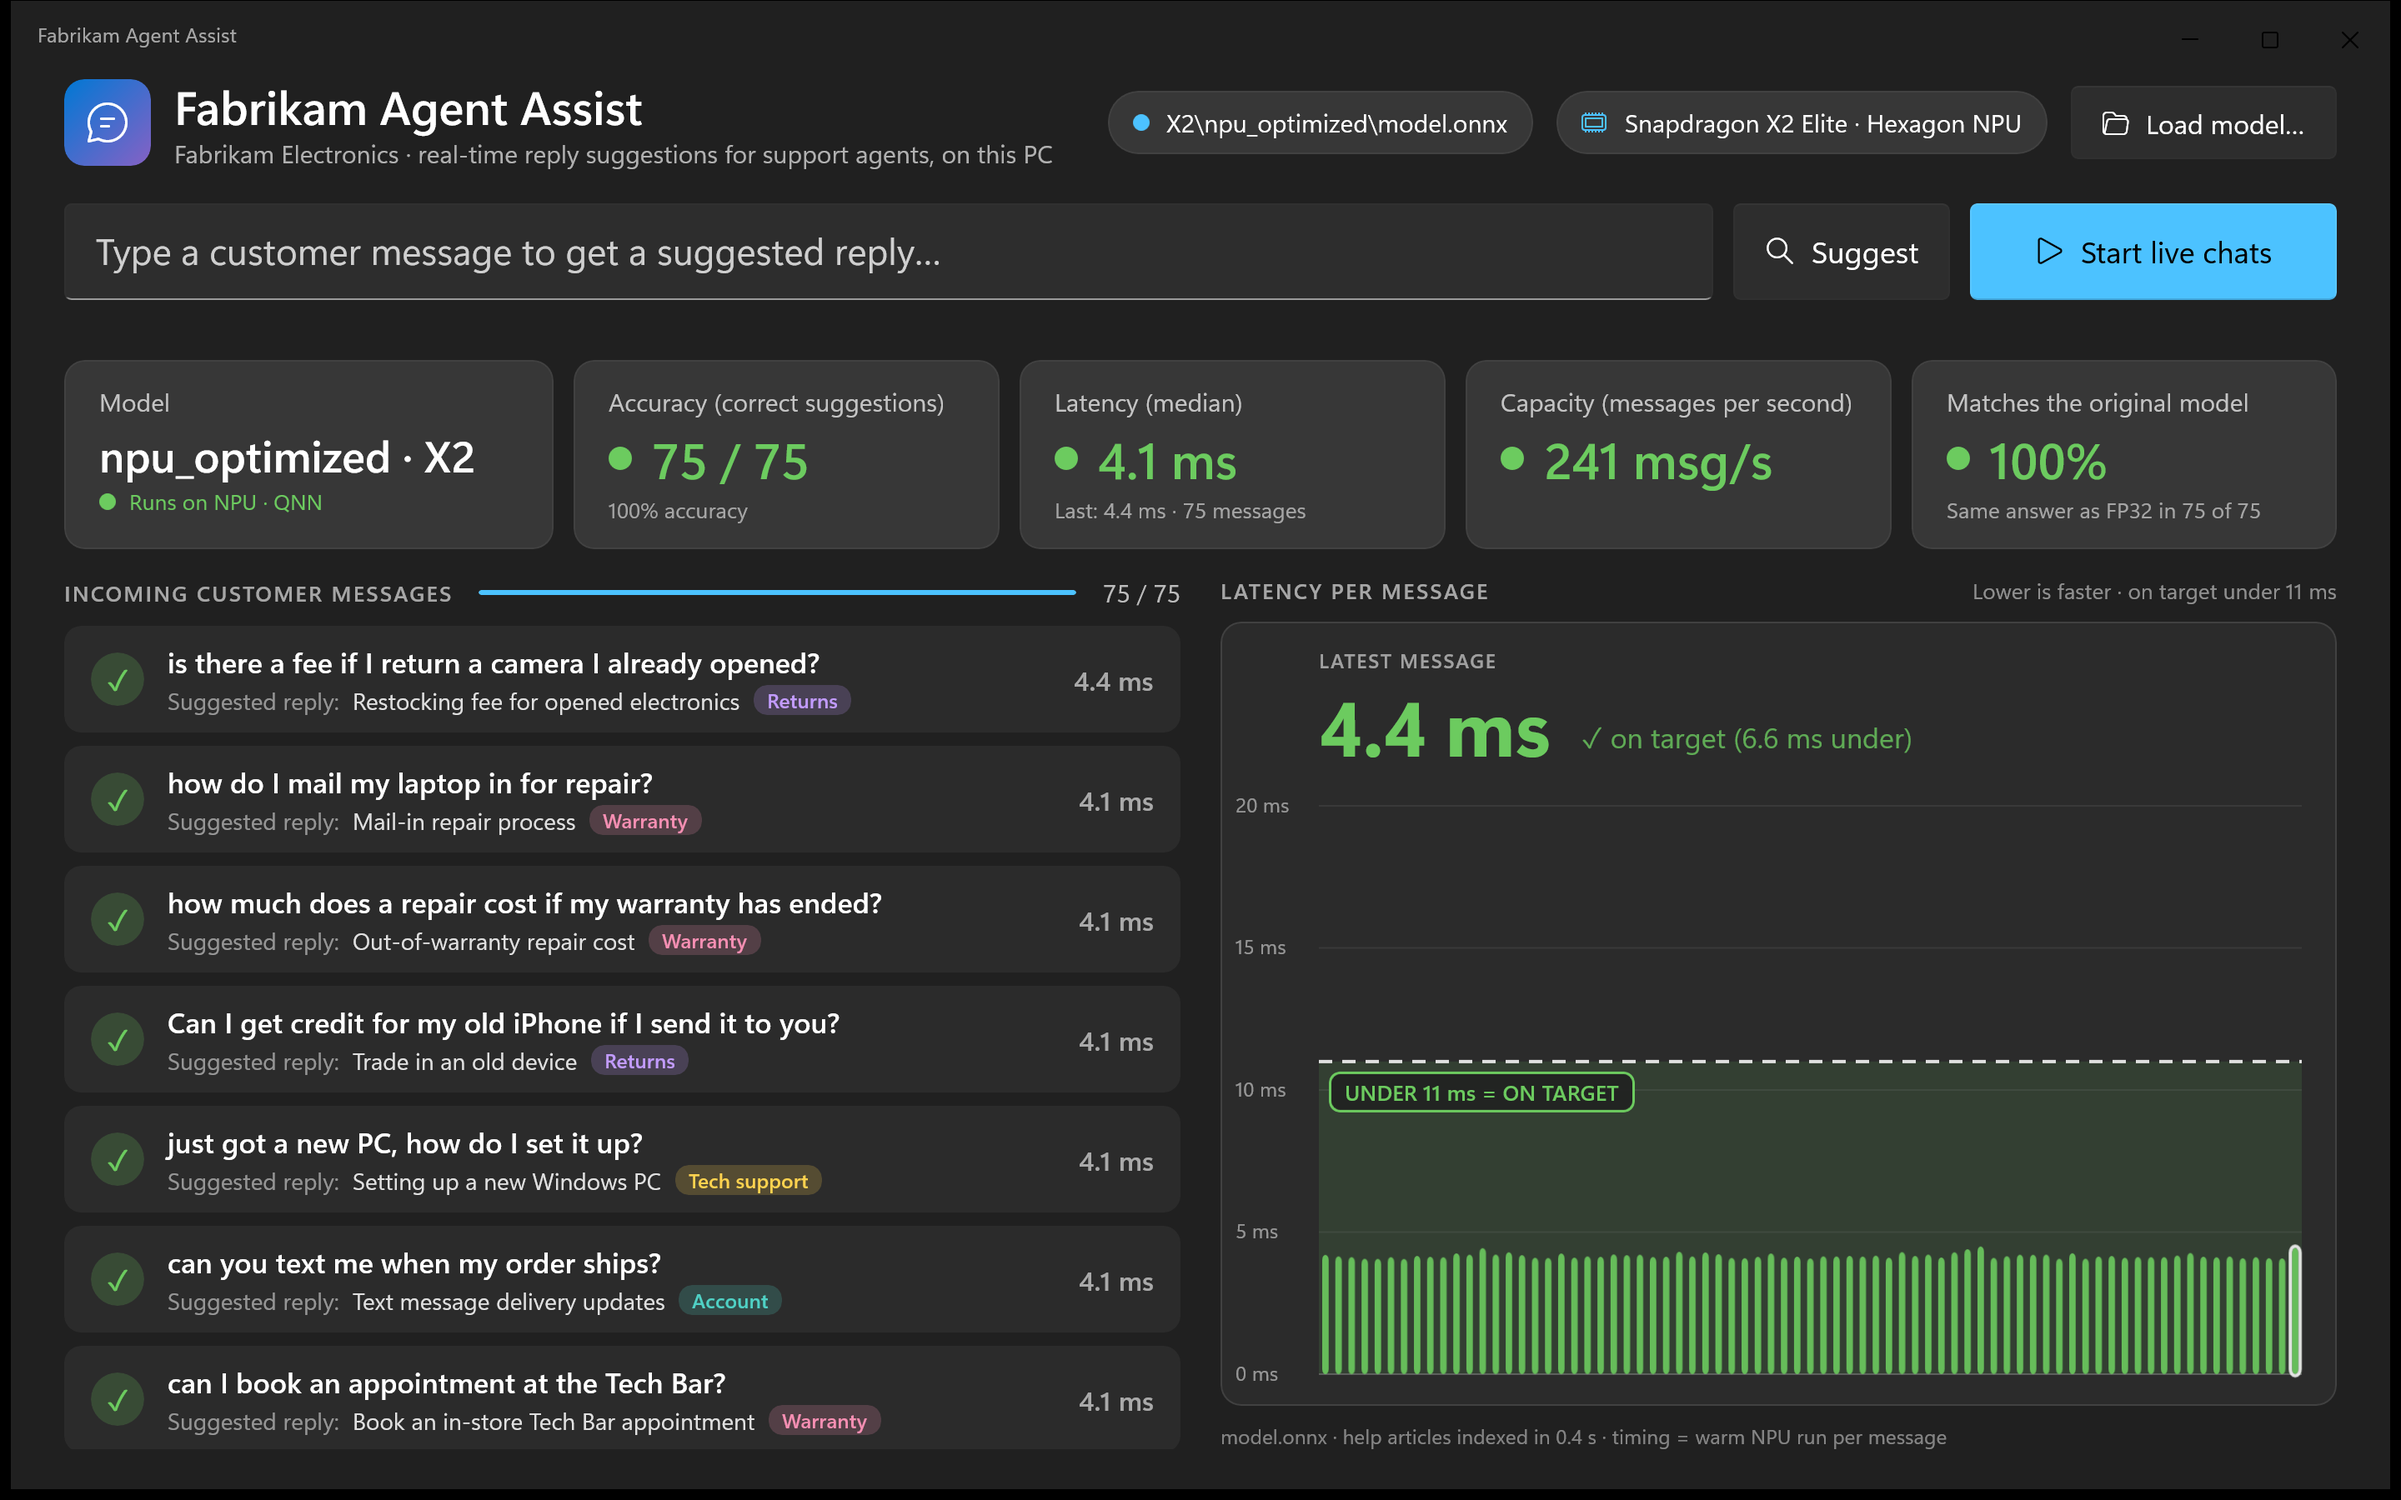
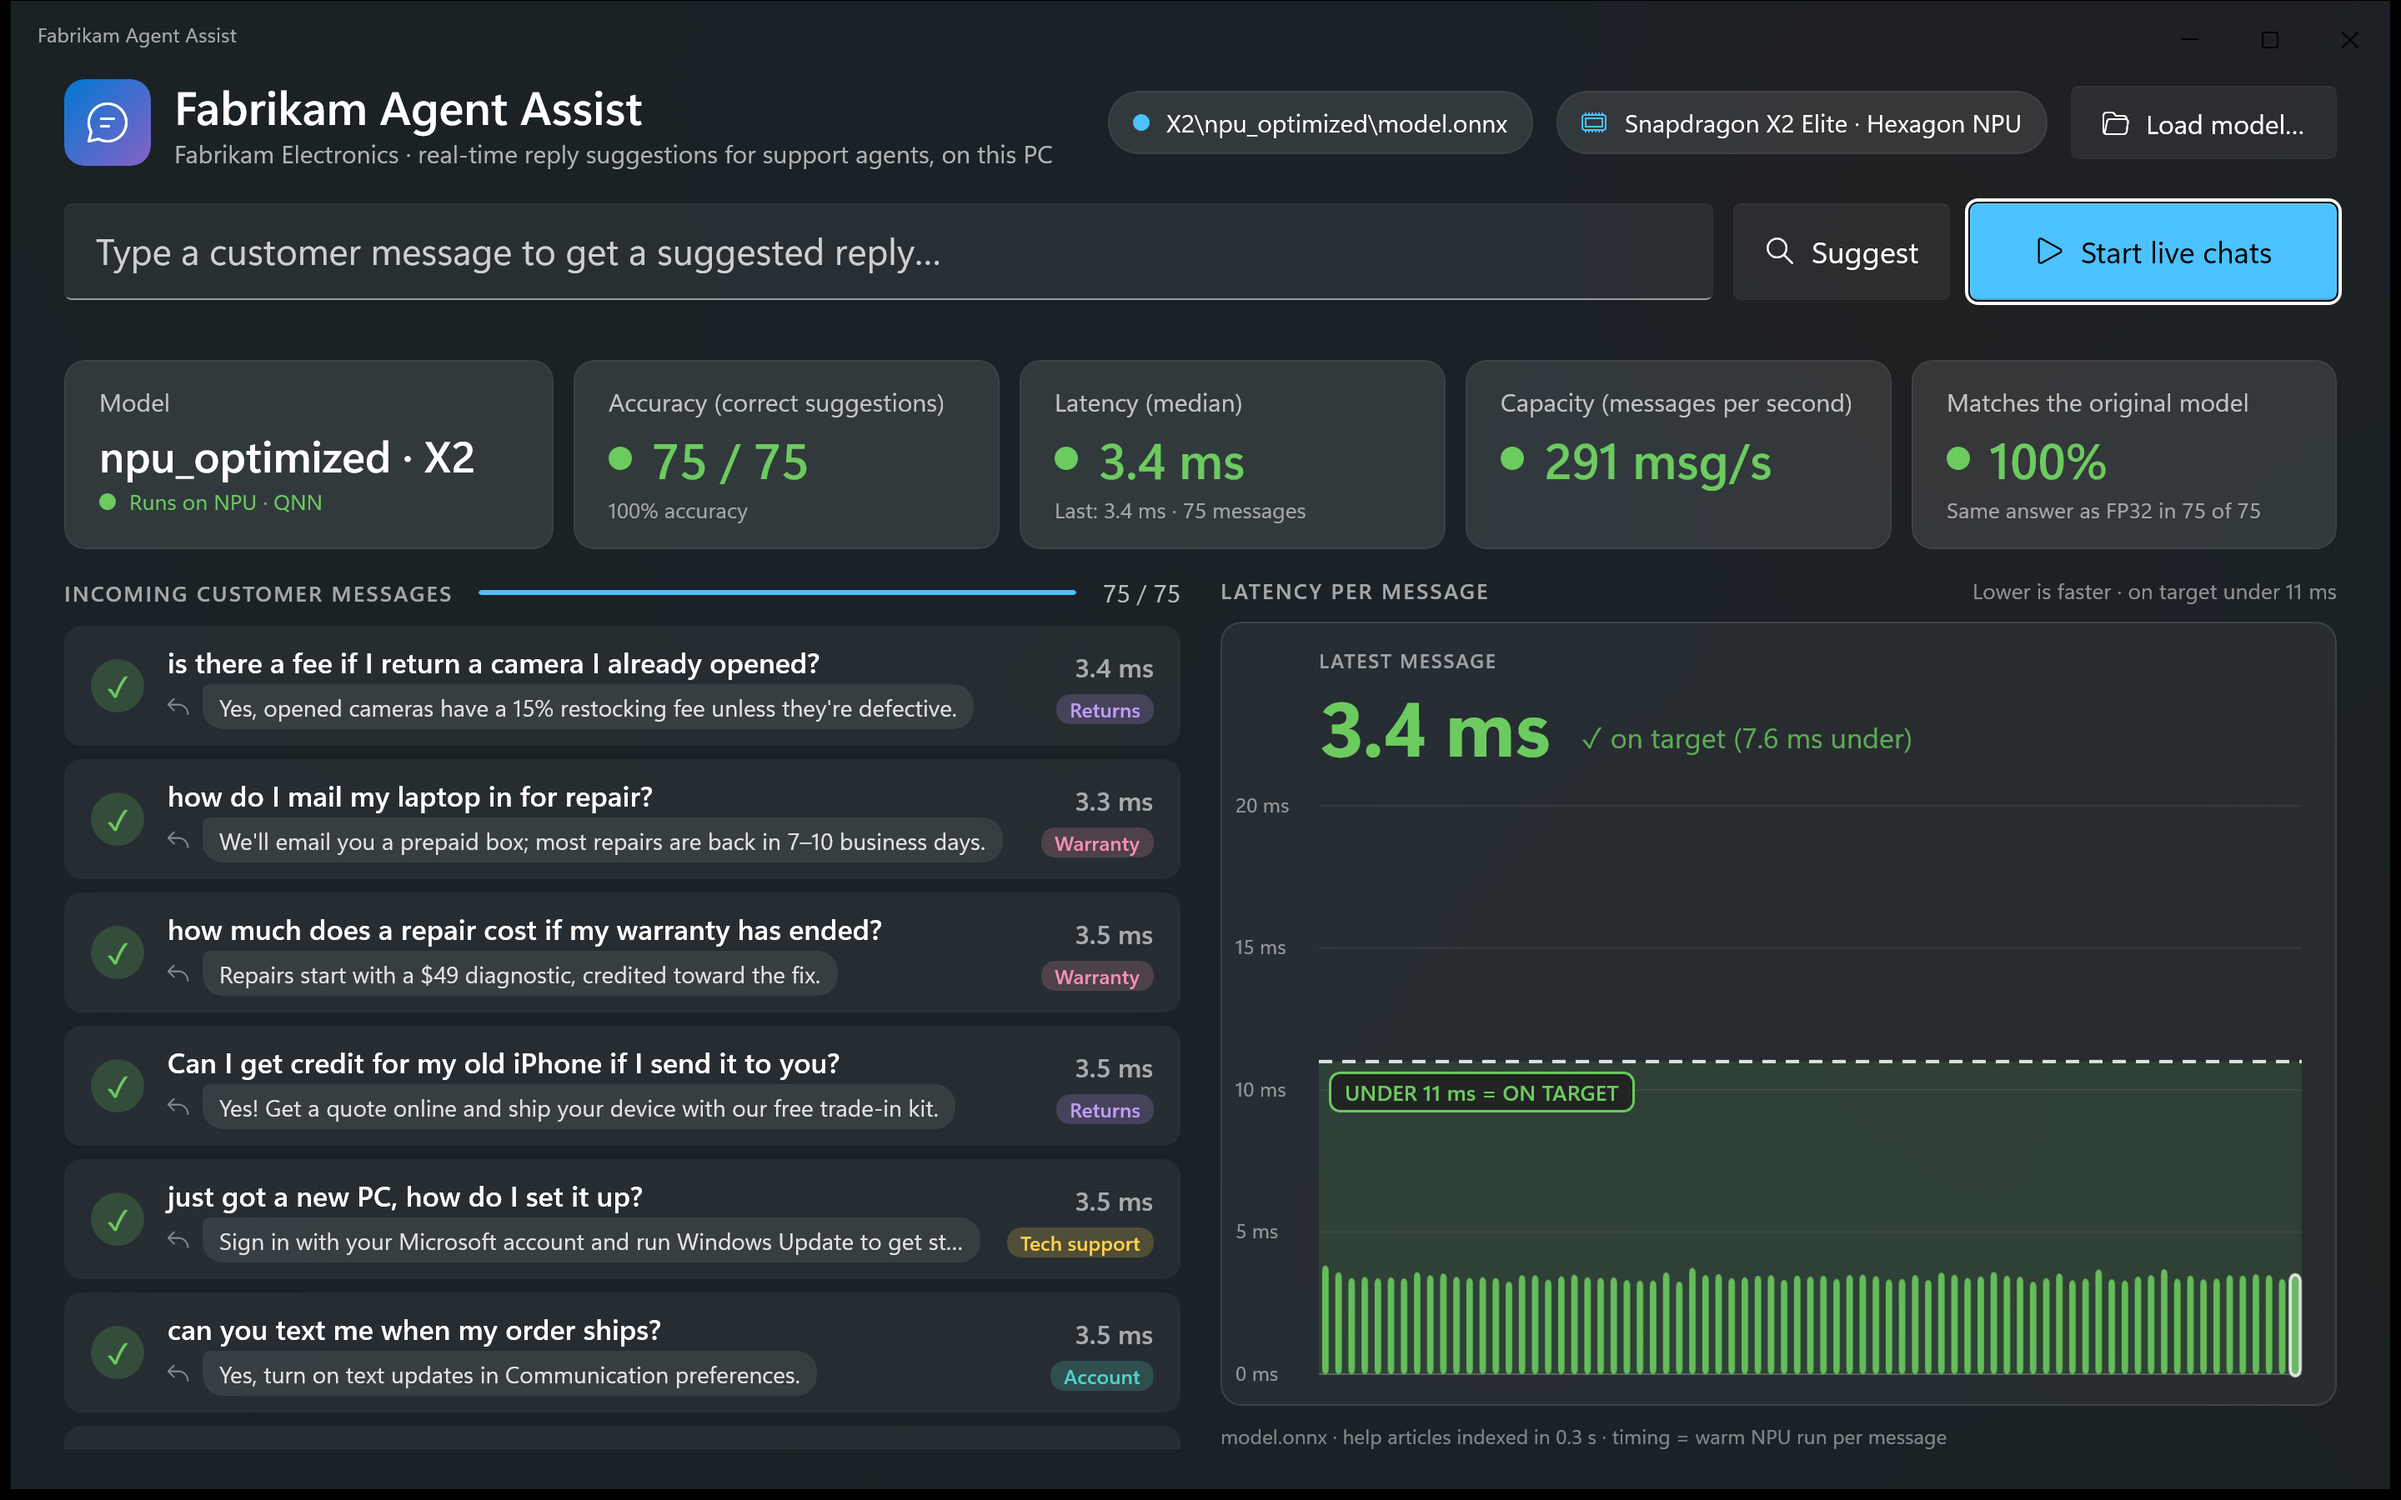
Show ready-to-send replies instead of article titles
- Add a short reply to each of the 90 help articles (display only; matching still uses title + body)
- Show the suggested reply as a chat bubble; move the category pill under the latency
- Refresh README text and screenshot

diff --git a/src/FabrikamAgentAssist/MainWindow.xaml b/src/FabrikamAgentAssist/MainWindow.xaml
@@ -221,16 +221,27 @@
                                                 </Border>
                                                 <TextBlock Text="{x:Bind Question}" FontSize="17" FontWeight="SemiBold" TextTrimming="CharacterEllipsis" />
                                             </StackPanel>
-                                            <StackPanel Orientation="Horizontal" Spacing="8">
-                                                <TextBlock Text="Suggested reply:" FontSize="14" Opacity="0.5" />
-                                                <TextBlock Text="{x:Bind Answer}" FontSize="14" Foreground="{x:Bind AnswerBrush}" TextTrimming="CharacterEllipsis" />
-                                                <Border CornerRadius="8" Padding="8,1" Background="{x:Bind PillBackground}" VerticalAlignment="Center">
-                                                    <TextBlock Text="{x:Bind Category}" FontSize="12" FontWeight="SemiBold" Foreground="{x:Bind PillForeground}" />
+                                            <Grid ColumnSpacing="8">
+                                                <Grid.ColumnDefinitions>
+                                                    <ColumnDefinition Width="Auto" />
+                                                    <ColumnDefinition Width="*" />
+                                                </Grid.ColumnDefinitions>
+                                                <!-- Suggested reply, shown as a chat bubble the rep could send -->
+                                                <FontIcon Glyph="&#xE97A;" FontSize="13" Opacity="0.45" VerticalAlignment="Center" />
+                                                <Border Grid.Column="1" CornerRadius="4,12,12,12" Padding="10,4" Background="#14FFFFFF" HorizontalAlignment="Left"
+                                                        ToolTipService.ToolTip="{x:Bind Source}">
+                                                    <TextBlock Text="{x:Bind Reply}" FontSize="14" Foreground="{x:Bind AnswerBrush}" TextTrimming="CharacterEllipsis" />
                                                 </Border>
-                                            </StackPanel>
+                                            </Grid>
                                         </StackPanel>
-                                        <TextBlock Grid.Column="2" Text="{x:Bind MsText}" FontSize="16" FontWeight="SemiBold" Opacity="0.85"
-                                                   Foreground="{x:Bind MsBrush}" VerticalAlignment="Center" />
+                                        <!-- Latency + source help-article category (hover the reply for the article title) -->
+                                        <StackPanel Grid.Column="2" VerticalAlignment="Center" HorizontalAlignment="Right" Spacing="6">
+                                            <TextBlock Text="{x:Bind MsText}" FontSize="16" FontWeight="SemiBold" Opacity="0.85"
+                                                       Foreground="{x:Bind MsBrush}" HorizontalAlignment="Right" />
+                                            <Border CornerRadius="8" Padding="8,1" Background="{x:Bind PillBackground}" HorizontalAlignment="Right">
+                                                <TextBlock Text="{x:Bind Category}" FontSize="12" FontWeight="SemiBold" Foreground="{x:Bind PillForeground}" />
+                                            </Border>
+                                        </StackPanel>
                                     </Grid>
                                 </Border>
                             </DataTemplate>

diff --git a/src/FabrikamAgentAssist/MainWindow.xaml.cs b/src/FabrikamAgentAssist/MainWindow.xaml.cs
@@ -17,7 +17,8 @@ namespace FabrikamAgentAssist;
 public sealed class FeedRow
 {
     public required string Question { get; init; }
-    public required string Answer { get; init; }
+    public required string Reply { get; init; }
+    public required string Source { get; init; }
     public required string Category { get; init; }
     public required string MsText { get; init; }
     public required string StatusGlyph { get; init; }
@@ -336,7 +337,8 @@ public sealed partial class MainWindow : Window
         _rows.Insert(0, new FeedRow
         {
             Question = question,
-            Answer = top.Title,
+            Reply = top.Reply ?? top.Title,
+            Source = $"Help article: {top.Title}",
             Category = top.Category,
             MsText = $"{ms:F1} ms",
             StatusGlyph = good ? "✓" : "✕",

diff --git a/src/Engine/SearchEngine.cs b/src/Engine/SearchEngine.cs
@@ -3,8 +3,9 @@ using System.Text.Json;
 
 namespace FabrikamAgentAssist.Engine;
 
-public sealed record Article(string Id, string Title, string Category, string Body)
+public sealed record Article(string Id, string Title, string Category, string Body, string? Reply = null)
 {
+    // Only the title + body are embedded; the reply is display text, so it doesn't affect matching.
     public string EmbeddingText => $"{Title}. {Body}";
 }
 

diff --git a/README.md b/README.md
@@ -2,13 +2,13 @@
 
 Sample app running realtime reply suggestions for support agents at the fictional Fabrikam Electronics store, using an embedding model on the NPU with Windows ML.
 
-The app is called **Fabrikam Agent Assist** on screen. Customer chat messages stream in; for each one the app embeds the message on the NPU, finds the best-matching help article from a 90-article knowledge base, and shows whether the suggestion is correct and how long it took. Load the **NPU baseline** model and most suggestions are wrong; load the **auto-optimized** model and they're all right, with lower latency.
+The app is called **Fabrikam Agent Assist** on screen. Customer chat messages stream in; for each one the app embeds the message on the NPU, finds the best-matching help article from a 90-article knowledge base, and shows that article's ready-to-send reply for the support rep, whether it's correct, and how long it took. Load the **NPU baseline** model and most suggestions are wrong; load the **auto-optimized** model and they're all right, with lower latency.
 
 > *Fabrikam Electronics* is a fictional company. All help articles and customer messages are made up.
 
-![Fabrikam Agent Assist running the NPU optimized model: 75/75 correct, 4.1 ms median latency](docs/images/app-npu-optimized.png)
+![Fabrikam Agent Assist running the NPU optimized model: 75/75 correct, 3.4 ms median latency](docs/images/app-npu-optimized.png)
 
-*The app running the NPU optimized model: every suggestion correct, ~4 ms per message, all bars inside the on-target zone.*
+*The app running the NPU optimized model: every suggested reply correct, ~3.4 ms per message, all bars inside the on-target zone.*
 
 ## Why an embedding model (not an LLM)?
 
@@ -128,7 +128,7 @@ The compiled `.bin` is specific to the NPU it was built on (an X2 Elite build wo
 | `src/Engine/EmbeddingModel.cs` | **All the Windows ML code, marked `WINDOWS ML STEP 1–7`:** register execution providers, `PREFER_NPU` device policy, ONNX Runtime session, fixed 1×128 input, CLS pooling + L2 normalization |
 | `src/Engine/SearchEngine.cs` | Knowledge base, FP32 CPU reference, cosine ranking |
 | `src/FabrikamAgentAssist/` | WinUI 3 app (unpackaged, dark theme) |
-| `src/FabrikamAgentAssist/Assets/kb.json` | 90 help articles (Orders, Returns, Billing, Account, Tech support, Warranty) |
+| `src/FabrikamAgentAssist/Assets/kb.json` | 90 help articles (Orders, Returns, Billing, Account, Tech support, Warranty), each with a short ready-to-send `reply`. Only the title + body are embedded for matching; the reply is what the app shows |
 | `src/FabrikamAgentAssist/Assets/traffic.json` | 75 labeled customer messages |
 | `src/FabrikamAgentAssist/Assets/vocab.txt` | Tokenizer vocabulary from bge-base-en-v1.5 |
 | `tools/make-icon.ps1` | Regenerates `Assets/AppIcon.ico` |
